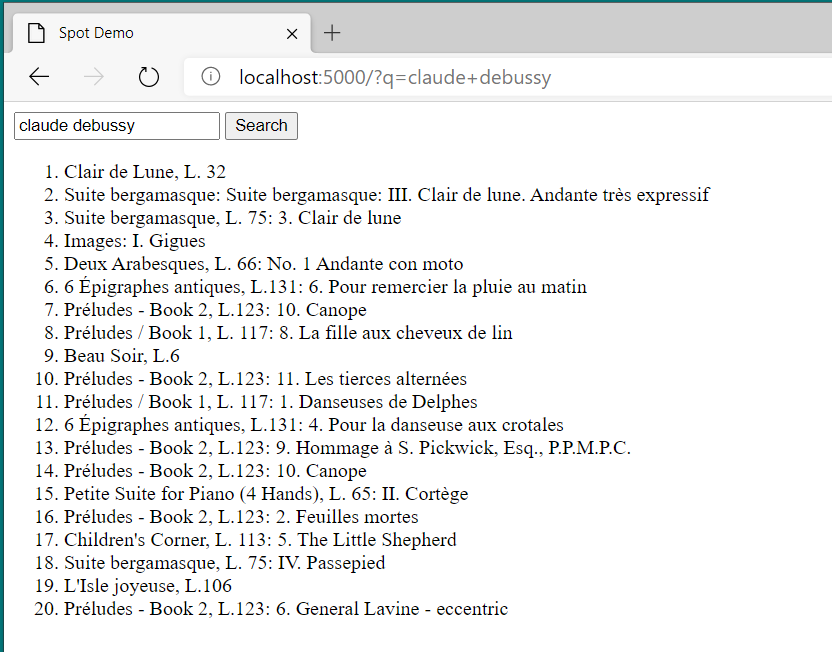
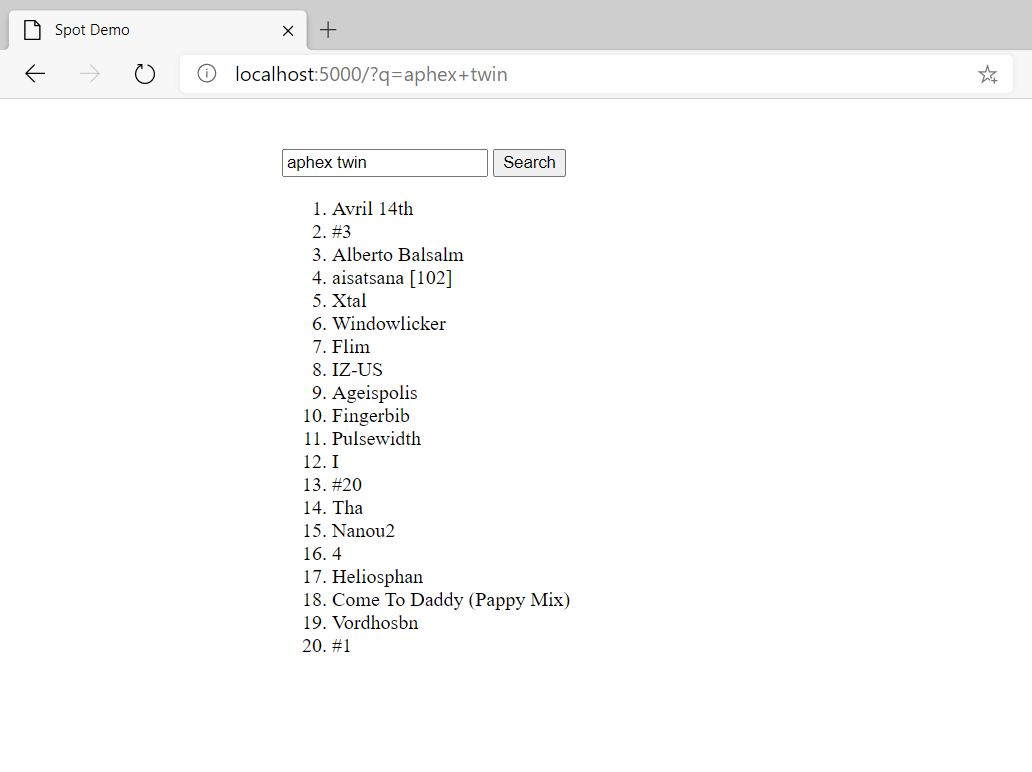
Add CSS

Changed region(s): [[0.0, 0.0, 1.0, 1.0], [0.4688, 0.184, 0.5625, 0.2454]]

diff --git a/templates/index.html b/templates/index.html
@@ -3,18 +3,28 @@
 
 <head>
   <title>Spot Demo</title>
+  <meta name="viewport" content="width=device-width, initial-scale=1">
+  <style>
+    main {
+      max-width: 38rem;
+      padding: 2rem;
+      margin: auto;
+    }
+  </style>
 </head>
 
 <body>
-  <form>
-    <input type="text" value="{{ query }}" name="q" />
-    <button type="submit">Search</button>
-  </form>
-  <ol>
-    {% for result in results %}
-    <li>{{ result["index"] }} {{ result["track_name"] }}</li>
-    {% endfor %}
-  </ol>
+  <main>
+    <form>
+      <input type="text" value="{{ query }}" name="q" />
+      <button type="submit">Search</button>
+    </form>
+    <ol>
+      {% for result in results %}
+      <li>{{ result["index"] }} {{ result["track_name"] }}</li>
+      {% endfor %}
+    </ol>
+  </main>
 </body>
 
 </html>
